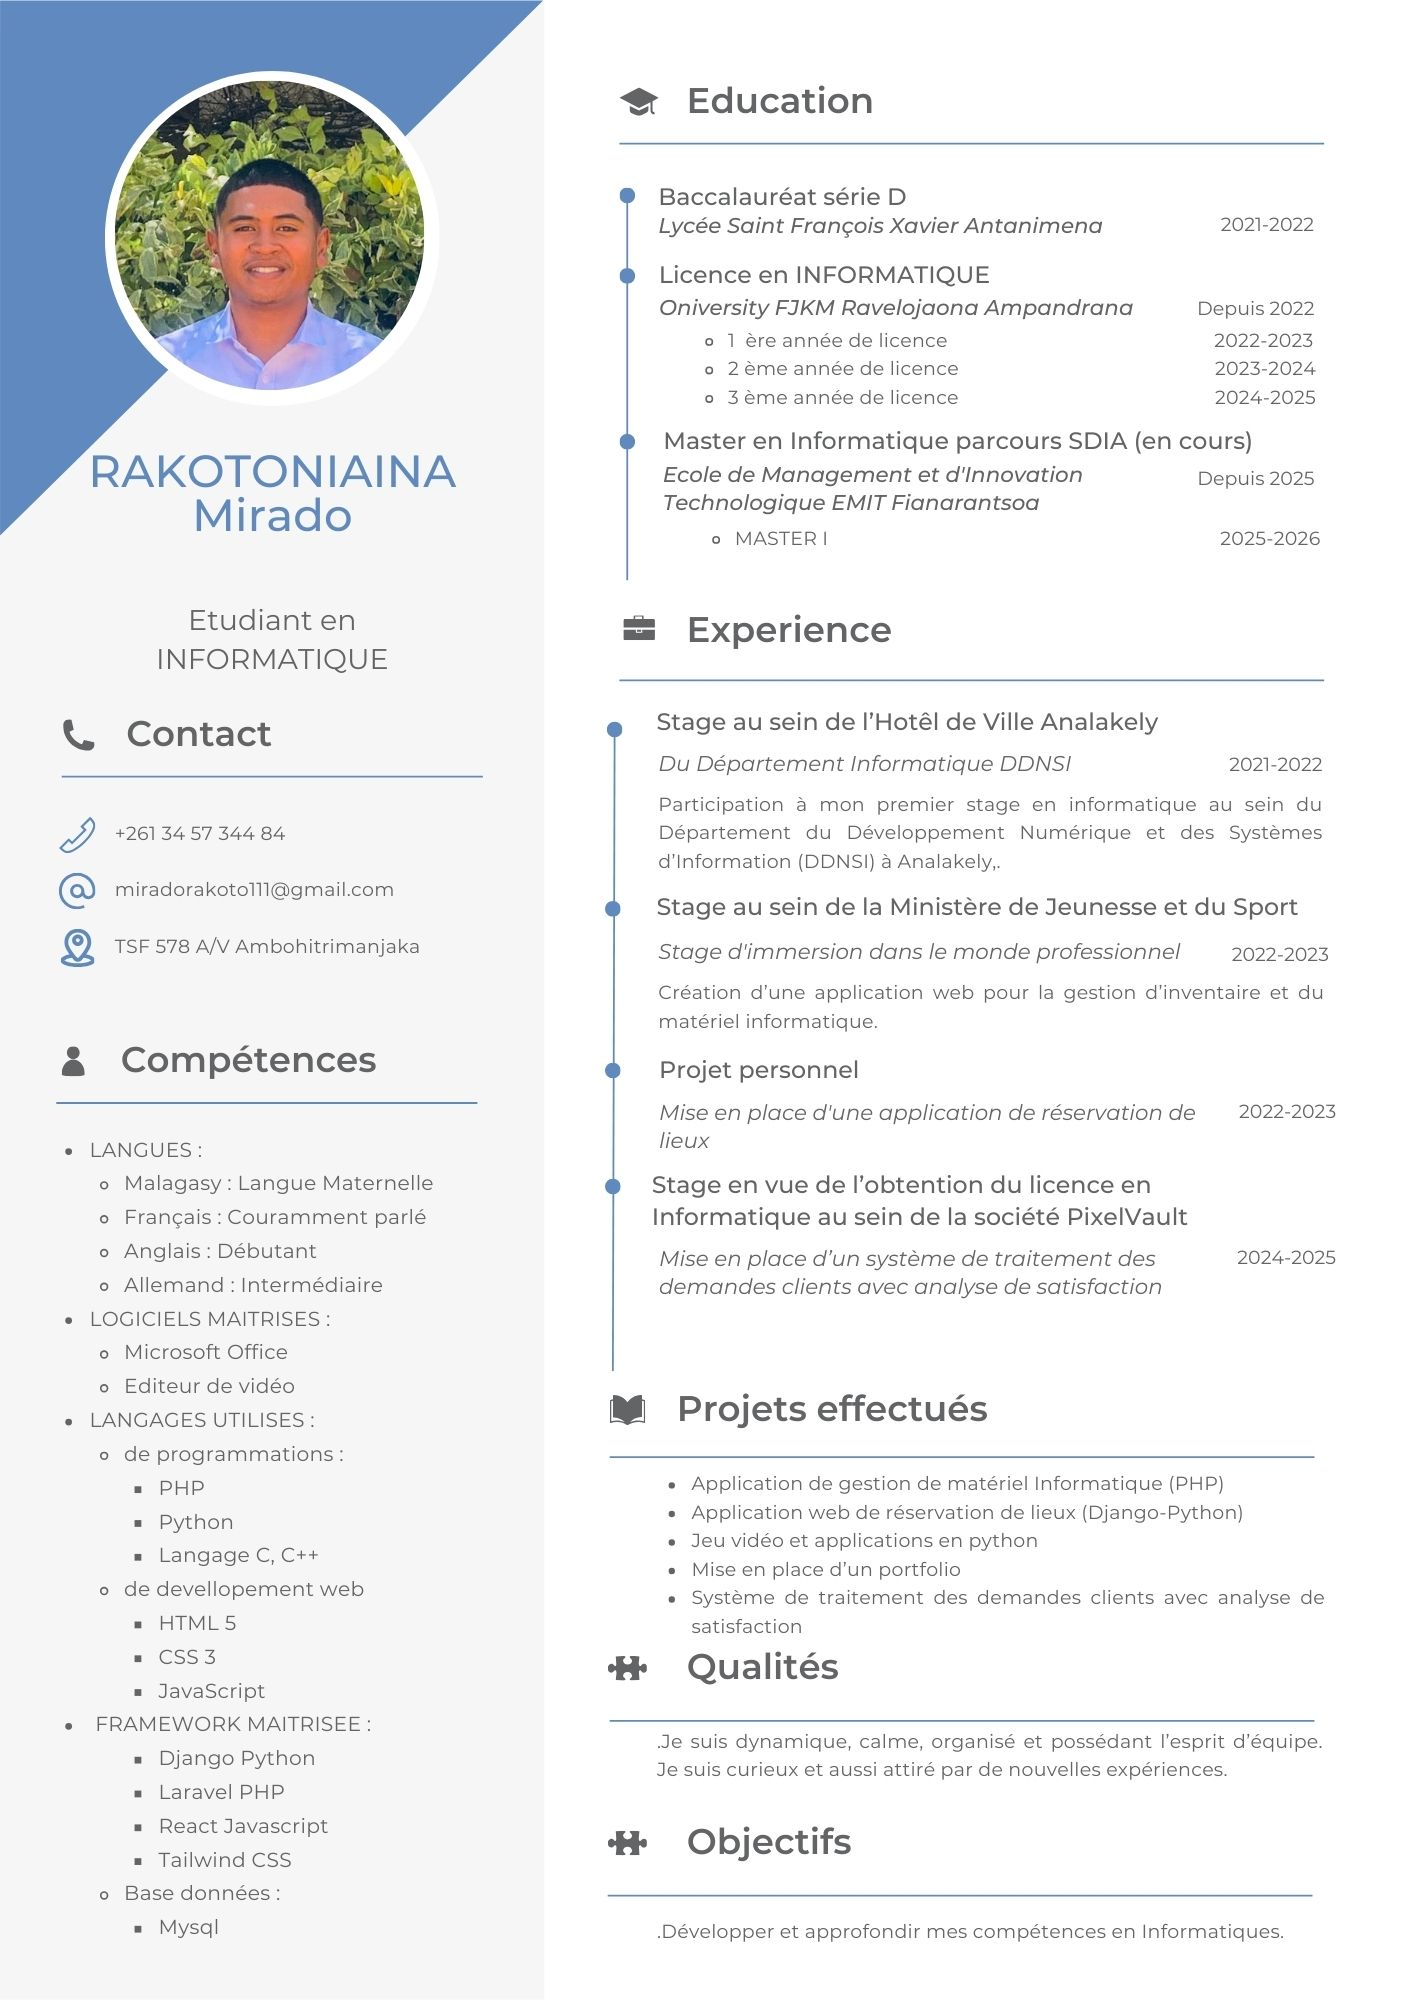
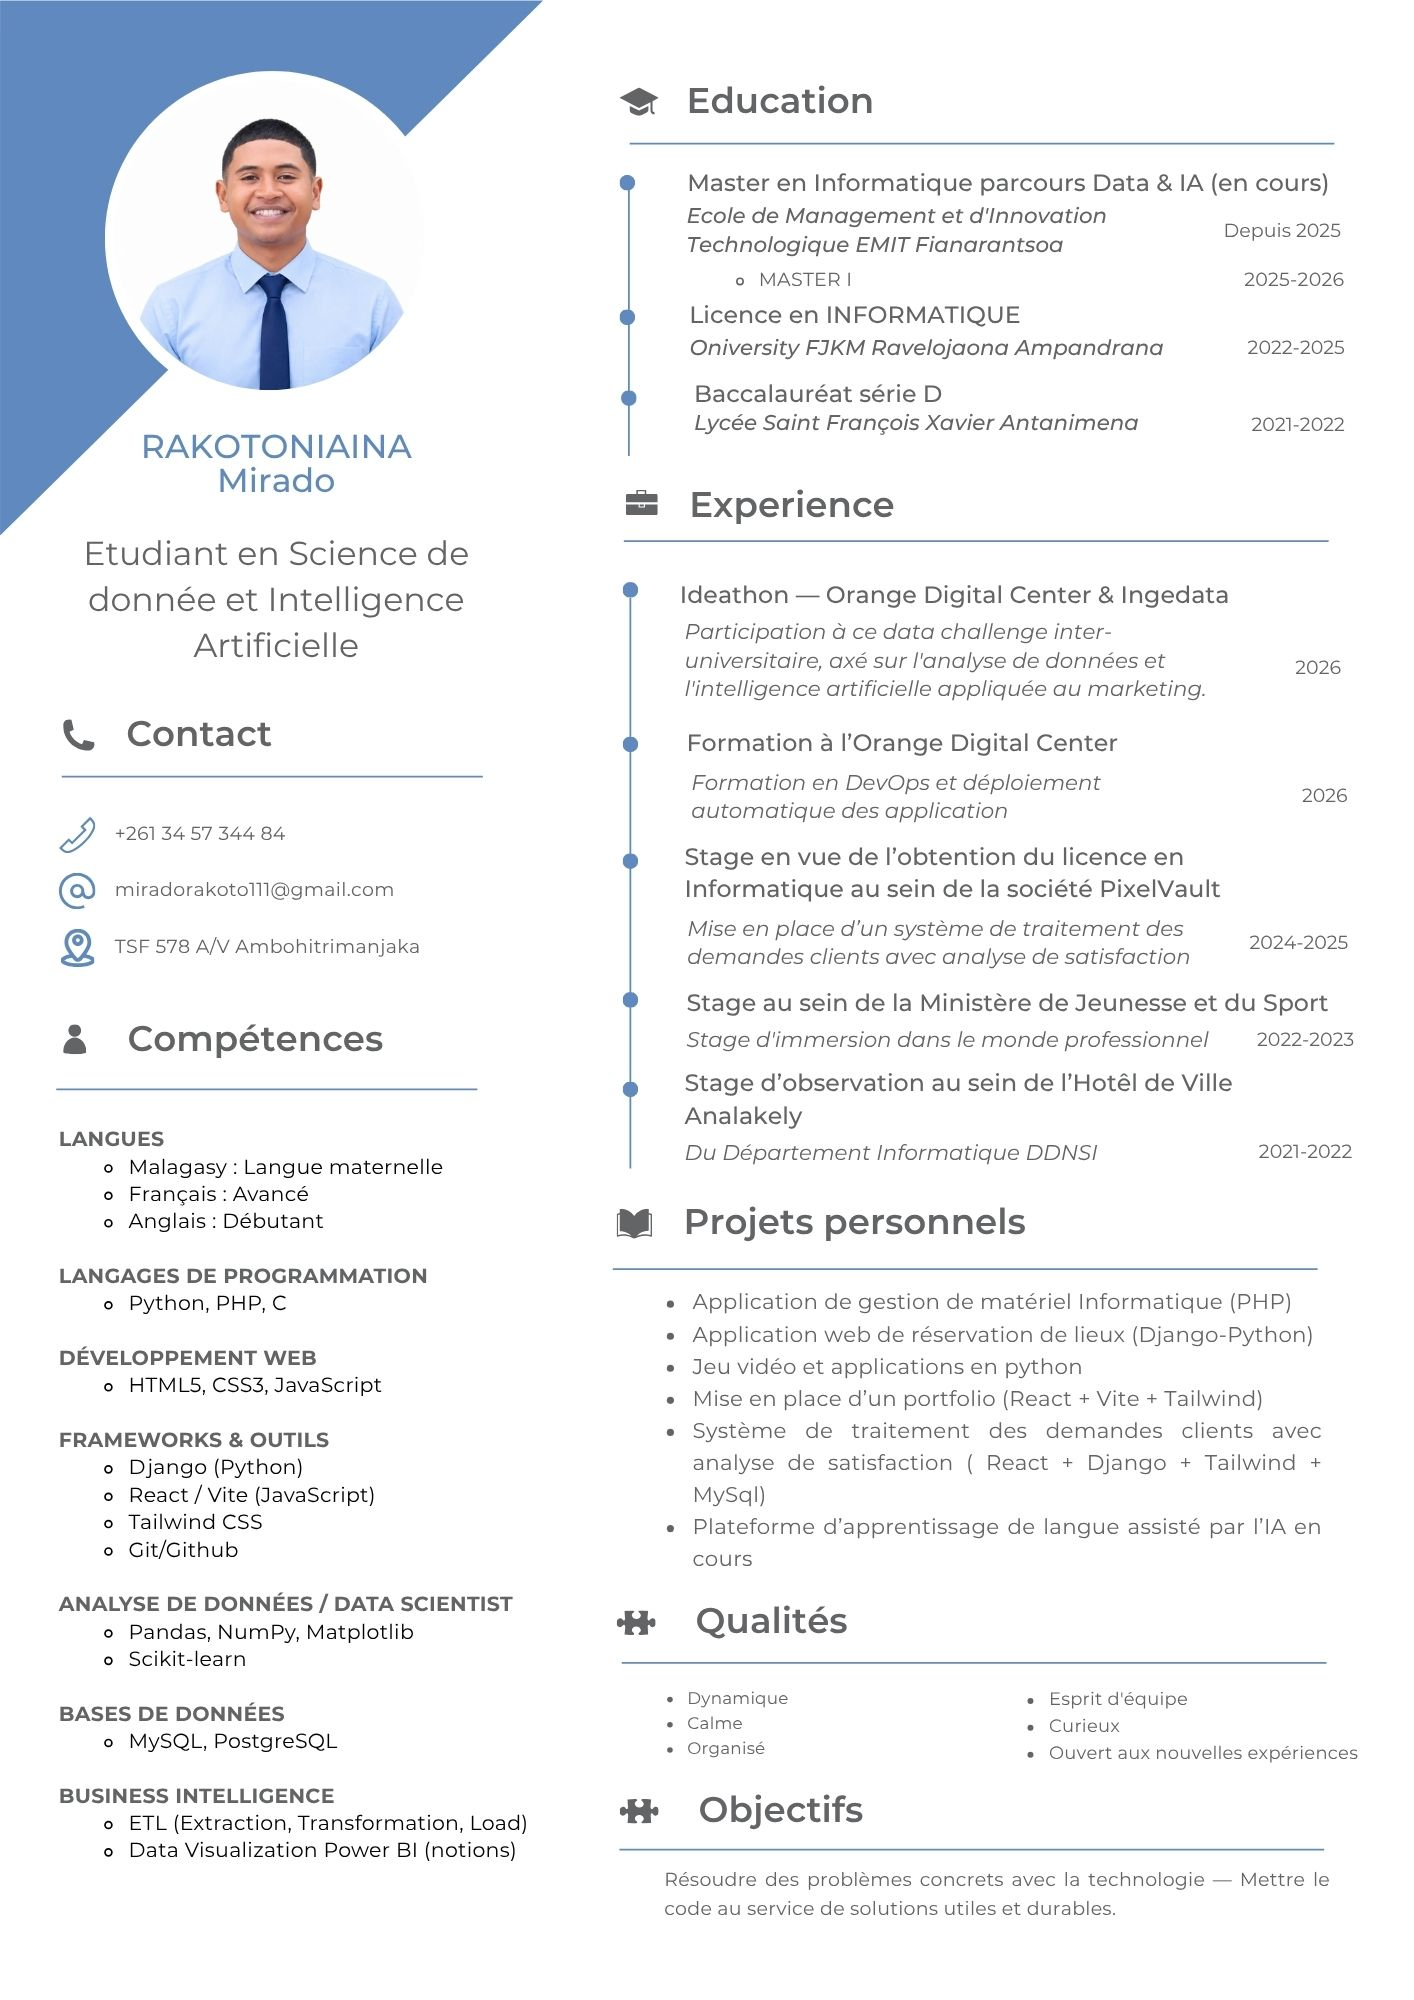
mdf: modification de la source du CV

diff --git a/Portfolio/src/components/CV.jsx b/Portfolio/src/components/CV.jsx
@@ -220,11 +220,10 @@ export default function CV({ darkMode }) {
         </div>
       </div>
 
-      {/* Bouton Téléchargement */}
       {/* Bouton Téléchargement CV */}
       <a
-        href="/Curriculum_Vitae_Mirado.pdf"
-        download="Curriculum_Vitae_Mirado.pdf"
+        href="/Curriculum_Vitae_Mirado.jpg"
+        download="Curriculum_Vitae_Mirado.jpg"
         className={`fixed bottom-6 right-6 z-50 flex items-center gap-3 px-6 py-3.5 
                    bg-white dark:bg-gray-900 border border-gray-200 dark:border-gray-700 
                    hover:border-blue-500 text-gray-900 dark:text-white 
